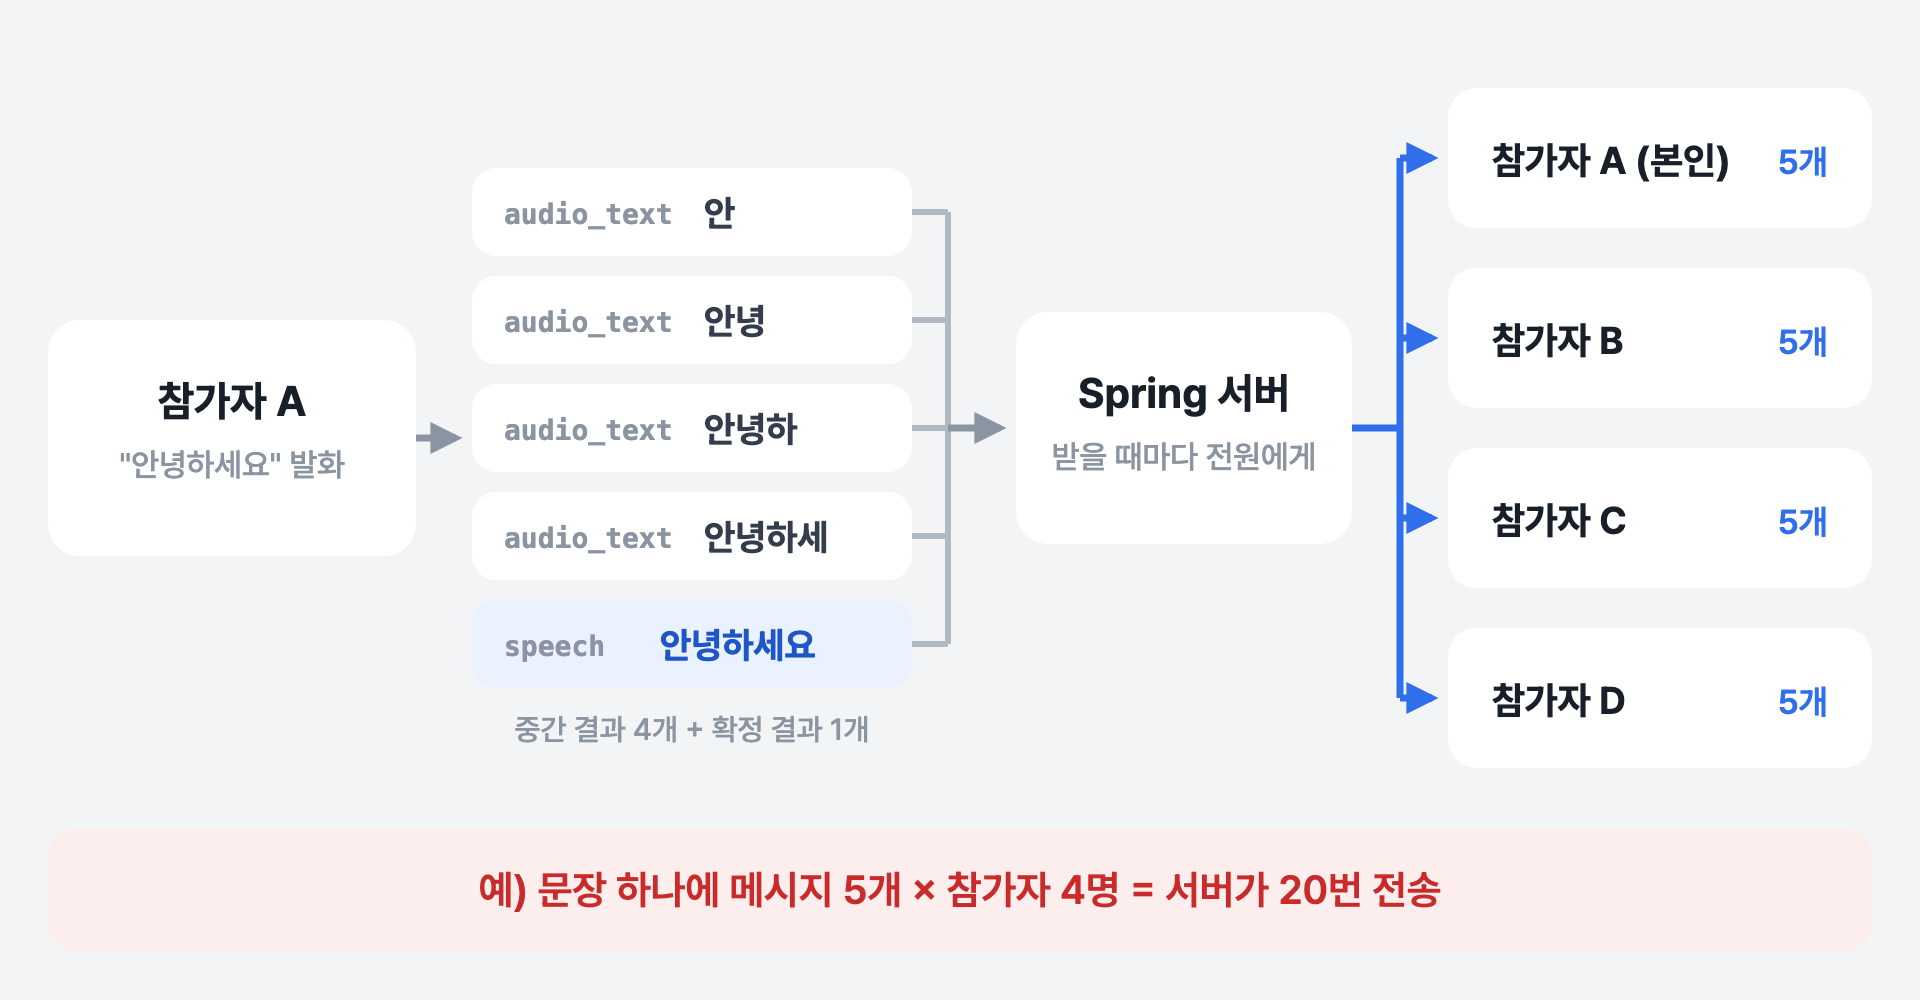
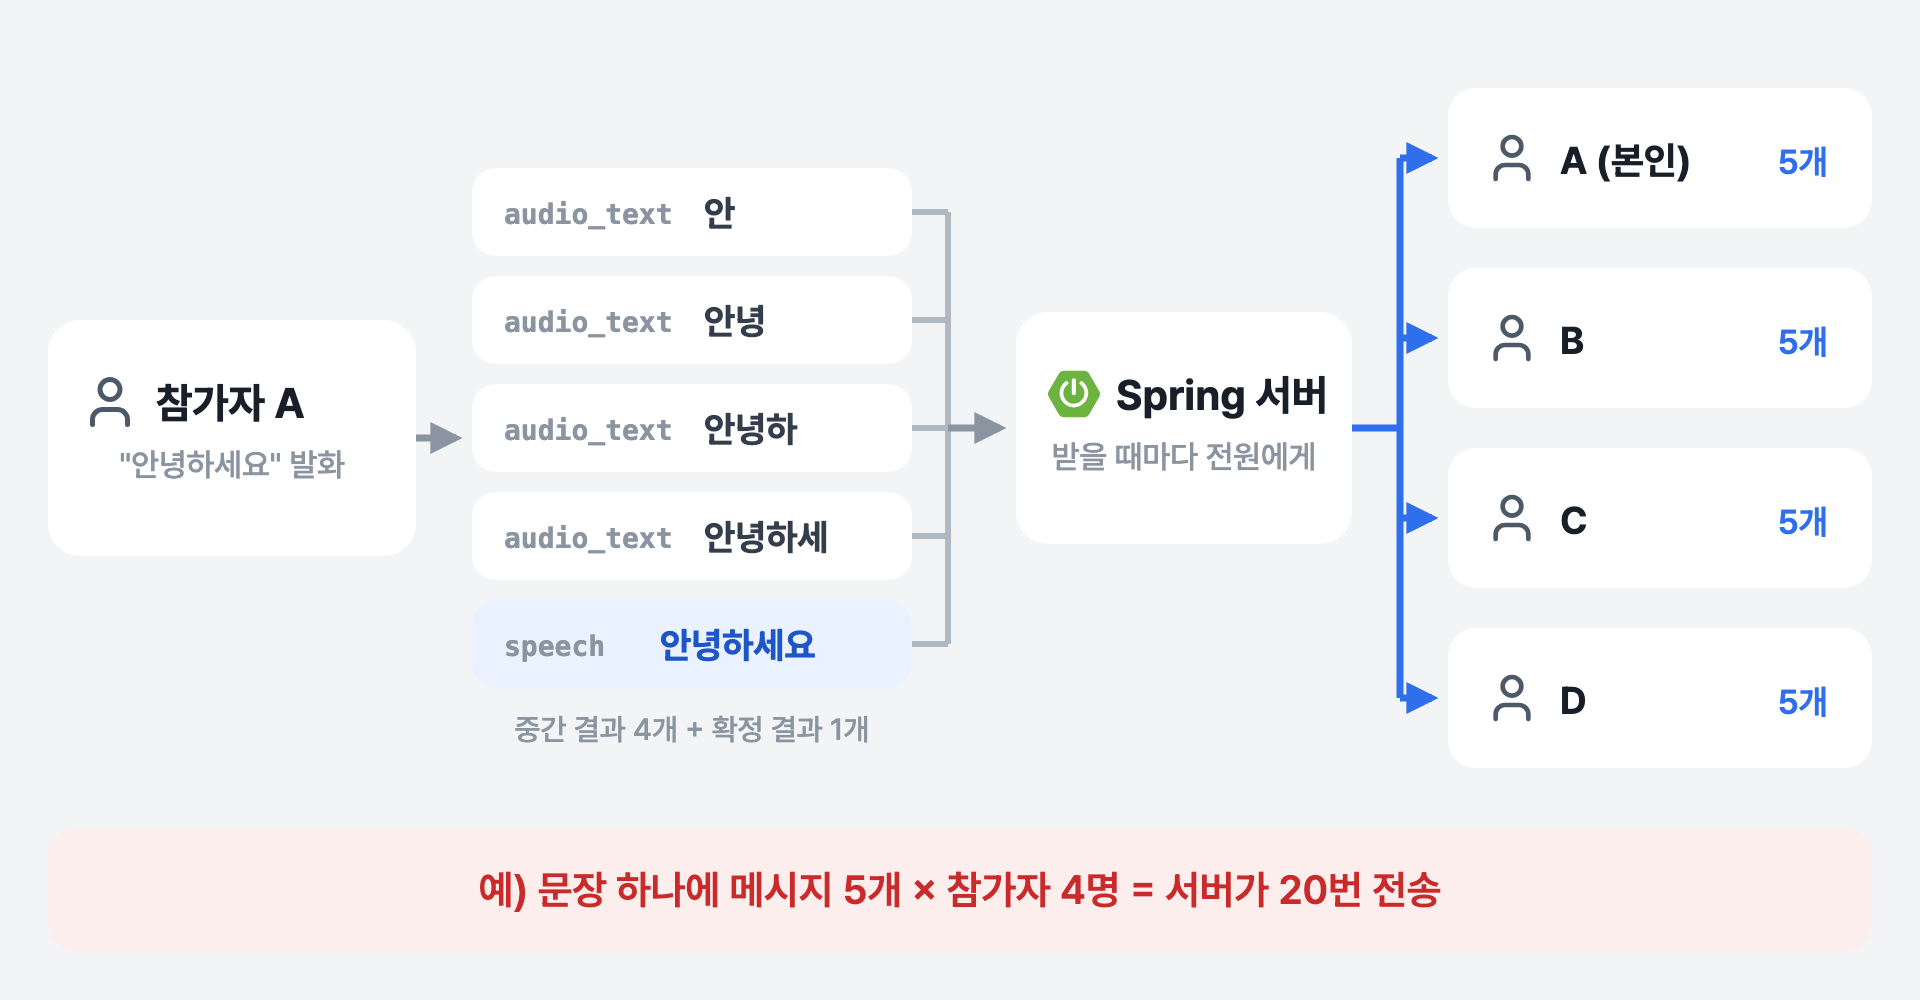
feat: 다이어그램 로고·아이콘, 작업 시기·구조화 데이터·검색용 제목
- 기술 노드에 로고·아이콘 (simple-icons·devicon·lucide), AWS 공식 아이콘 받기 스크립트
- 글별 작업 시기(workPeriod) 표시 — 게시일은 실제 공개일 유지
- BlogPosting·WebSite 구조화 데이터, article 메타 (한국 시간 날짜)
- seoTitle(검색용 제목) 지원, 3편에 적용
- WhyLog 1~3편 그림 갱신에 따라 수정일 추가

diff --git a/src/content.config.ts b/src/content.config.ts
@@ -9,8 +9,12 @@ const posts = defineCollection({
 		z
 			.object({
 				title: z.string(),
+				// 검색 결과·공유용 제목 (화면의 제목과 다르게 하고 싶을 때만). 없으면 title 사용
+				seoTitle: z.string().optional(),
 				description: z.string(),
 				pubDate: z.coerce.date(),
+				// 실제로 작업한 시기 (게시일과 별개). 예: "2026.04", "2026.03 ~ 04"
+				workPeriod: z.string().optional(),
 				updatedDate: z.coerce.date().optional(),
 				// 여러 개면 categories: [troubleshooting, backend] — 첫 번째가 대표 카테고리
 				categories: z.array(z.enum(CATEGORY_SLUGS)).min(1).optional(),

diff --git a/src/lib/posts.ts b/src/lib/posts.ts
@@ -55,6 +55,11 @@ export function isoDate(date: Date): string {
 	return date.toISOString();
 }
 
+/** frontmatter 날짜(YYYY-MM-DD)를 한국 시간 기준 ISO 문자열로 — 구조화 데이터·article 메타용 */
+export function isoDateKst(date: Date): string {
+	return `${date.toISOString().slice(0, 10)}T00:00:00+09:00`;
+}
+
 /** base(/tech-blog)를 붙인 내부 링크 */
 export function withBase(path = '/'): string {
 	const base = import.meta.env.BASE_URL.replace(/\/$/, '');

diff --git a/src/content/posts/whylog-transcript-interim.md b/src/content/posts/whylog-transcript-interim.md
@@ -1,7 +1,10 @@
 ---
 title: "“안녕하세요”가 “안, 안녕, 안녕하…”로 저장되던 문제"
+seoTitle: "STT 중간 결과(is_final)가 회의 기록에 그대로 저장되던 문제"
 description: "WhyLog 회의 기록에 문장 하나가 글자가 늘어나는 조각 여러 줄로 저장됐습니다. 서버는 중간 인식 결과를 is_final 값으로 거르려 했지만 클라이언트는 그 값을 보내지 않았고, 확정 결과는 아예 저장 대상에서 빠져 있었습니다."
 pubDate: 2026-11-03
+updatedDate: 2026-11-04
+workPeriod: "2026.05"
 categories: [troubleshooting, backend]
 tags: [WhyLog, WebSocket, STT, 메시지 설계]
 series: whylog-voice

diff --git a/src/content/posts/whylog-subtitle-broadcast.md b/src/content/posts/whylog-subtitle-broadcast.md
@@ -2,6 +2,8 @@
 title: "실시간 자막이 참가자가 늘수록 늦게 뜨던 문제"
 description: "WhyLog 실시간 회의에서 자막을 웹소켓으로 참가자 모두에게 보내던 구조가 동기 방식이라 참가자가 늘수록 지연이 커졌습니다. 원인을 짚고 전송 스레드 분리와 ConcurrentWebSocketSessionDecorator로 개선한 과정을 정리했습니다."
 pubDate: 2026-11-03
+updatedDate: 2026-11-04
+workPeriod: "2026.04"
 categories: [troubleshooting, backend]
 tags: [WhyLog, WebSocket, Spring, 동시성, 성능]
 series: whylog-voice

diff --git a/src/content/posts/whylog-voice-sfu.md b/src/content/posts/whylog-voice-sfu.md
@@ -2,6 +2,8 @@
 title: "웹소켓으로 음성을 중계하던 서버를 LiveKit SFU로 바꾼 이유"
 description: "WhyLog 실시간 음성 회의에서 처음엔 Spring 서버가 웹소켓으로 음성을 중계했습니다. 서버 중계·P2P·MCU·SFU를 비교해 SFU를 고르고, 백엔드는 접속 토큰만 발급하도록 역할을 나눈 과정을 정리했습니다."
 pubDate: 2026-11-03
+updatedDate: 2026-11-04
+workPeriod: "2026.03 ~ 04"
 categories: [backend, project]
 tags: [WhyLog, WebRTC, LiveKit, WebSocket, Spring]
 series: whylog-voice
